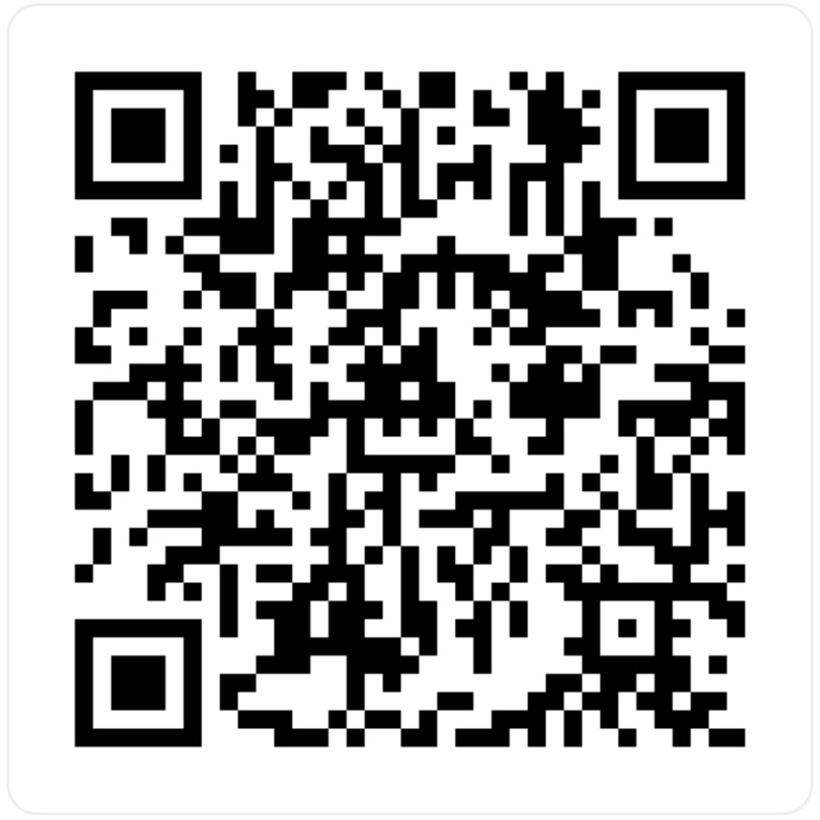
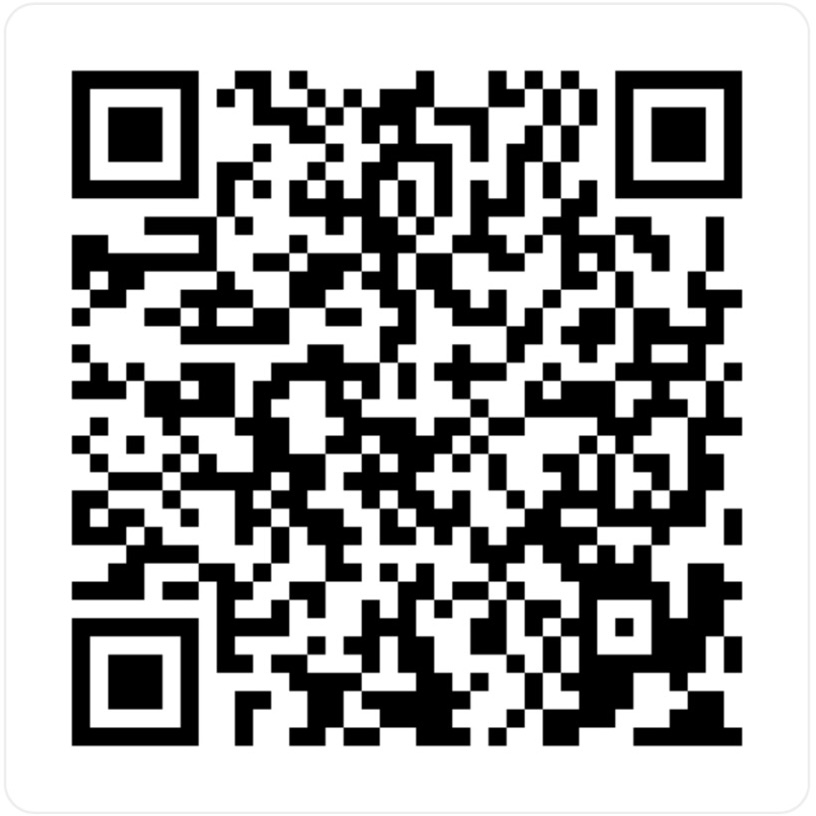
bug fixes

diff --git a/about.html b/about.html
@@ -114,8 +114,8 @@
                         </svg>
                         <span>Ethereum 地址:</span>
                     </div>
-                    <span class="support-address">0x9A3E52cE52BCAD179908b3a38acfB2Fe93F581Da</span>
-                    <button onclick="copyToClipboard('0x9A3E52cE52BCAD179908b3a38acfB2Fe93F581Da')" class="copy-btn">
+                    <span class="support-address">0x632a804c12e7A2Fc234E90727BC6c0a3ceB0aab9</span>
+                    <button onclick="copyToClipboard('0x632a804c12e7A2Fc234E90727BC6c0a3ceB0aab9')" class="copy-btn">
                         复制地址
                     </button>
                     <div class="qrcode-box">
